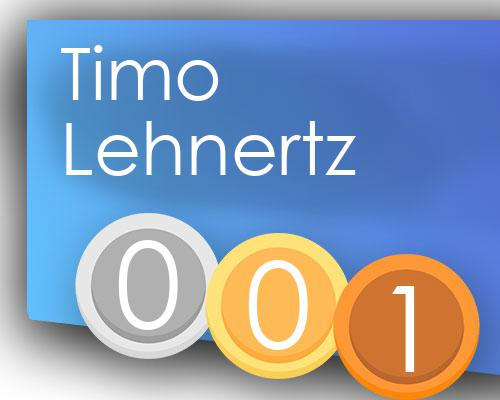
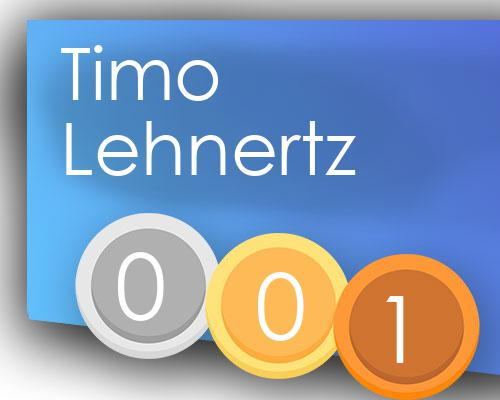
preview 2 digit medals fix

Changed region(s): [[0.48, 0.63, 0.63, 0.9], [0.24, 0.6, 0.36, 0.84], [0.78, 0.69, 0.84, 0.93]]

diff --git a/public_html/includes/preview.php b/public_html/includes/preview.php
@@ -14,7 +14,6 @@ function getPreview() {
     }
 
     return "https://www.roller-results.com/img/previews/logo.PNG";
-    // return "/img/previews/logo.PNG";
 }
 
 /**
@@ -35,14 +34,27 @@ function makeAthletePreview($id) {
 
     $fontFile = $_SERVER["DOCUMENT_ROOT"]."/fonts/win/CenturyGothic.ttf";
     $fontSizeName = 55;
-    $fontSizeMEdal = 90;
+    $fontSizeMedal = 70;
+
+    $bronzeOffset = 0;
+    $silverOffset = 0;
+    $goldOffset = 0;
+    if($athlete["bronze"] < 10) {
+        $bronzeOffset = 23;
+    }
+    if($athlete["silver"] < 10) {
+        $silverOffset = 23;
+    }
+    if($athlete["gold"] < 10) {
+        $goldOffset = 23;
+    }
 
     imagettftext($img, $fontSizeName, 0, 60, 100, $textcolor, $fontFile, $athlete["firstname"]);
     imagettftext($img, $fontSizeName, 0, 60, 175, $textcolor, $fontFile, $athlete["lastname"]);
     //medals
-    imagettftext($img, $fontSizeMEdal, 0, 115, 328, $textcolor, $fontFile, $athlete["silver"]);
-    imagettftext($img, $fontSizeMEdal, 0, 245, 348, $textcolor, $fontFile, $athlete["gold"]);
-    imagettftext($img, $fontSizeMEdal, 0, 375, 372, $textcolor, $fontFile, $athlete["bronze"]);
+    imagettftext($img, $fontSizeMedal, 0, 92 + $silverOffset, 320, $textcolor, $fontFile, $athlete["silver"]);
+    imagettftext($img, $fontSizeMedal, 0, 232 + $goldOffset, 340, $textcolor, $fontFile, $athlete["gold"]);
+    imagettftext($img, $fontSizeMedal, 0, 350 + $bronzeOffset, 363, $textcolor, $fontFile, $athlete["bronze"]);
 
     imagejpeg($img, $previewFileName);
     // return "/img/previews/athletes/$id.jpg";
